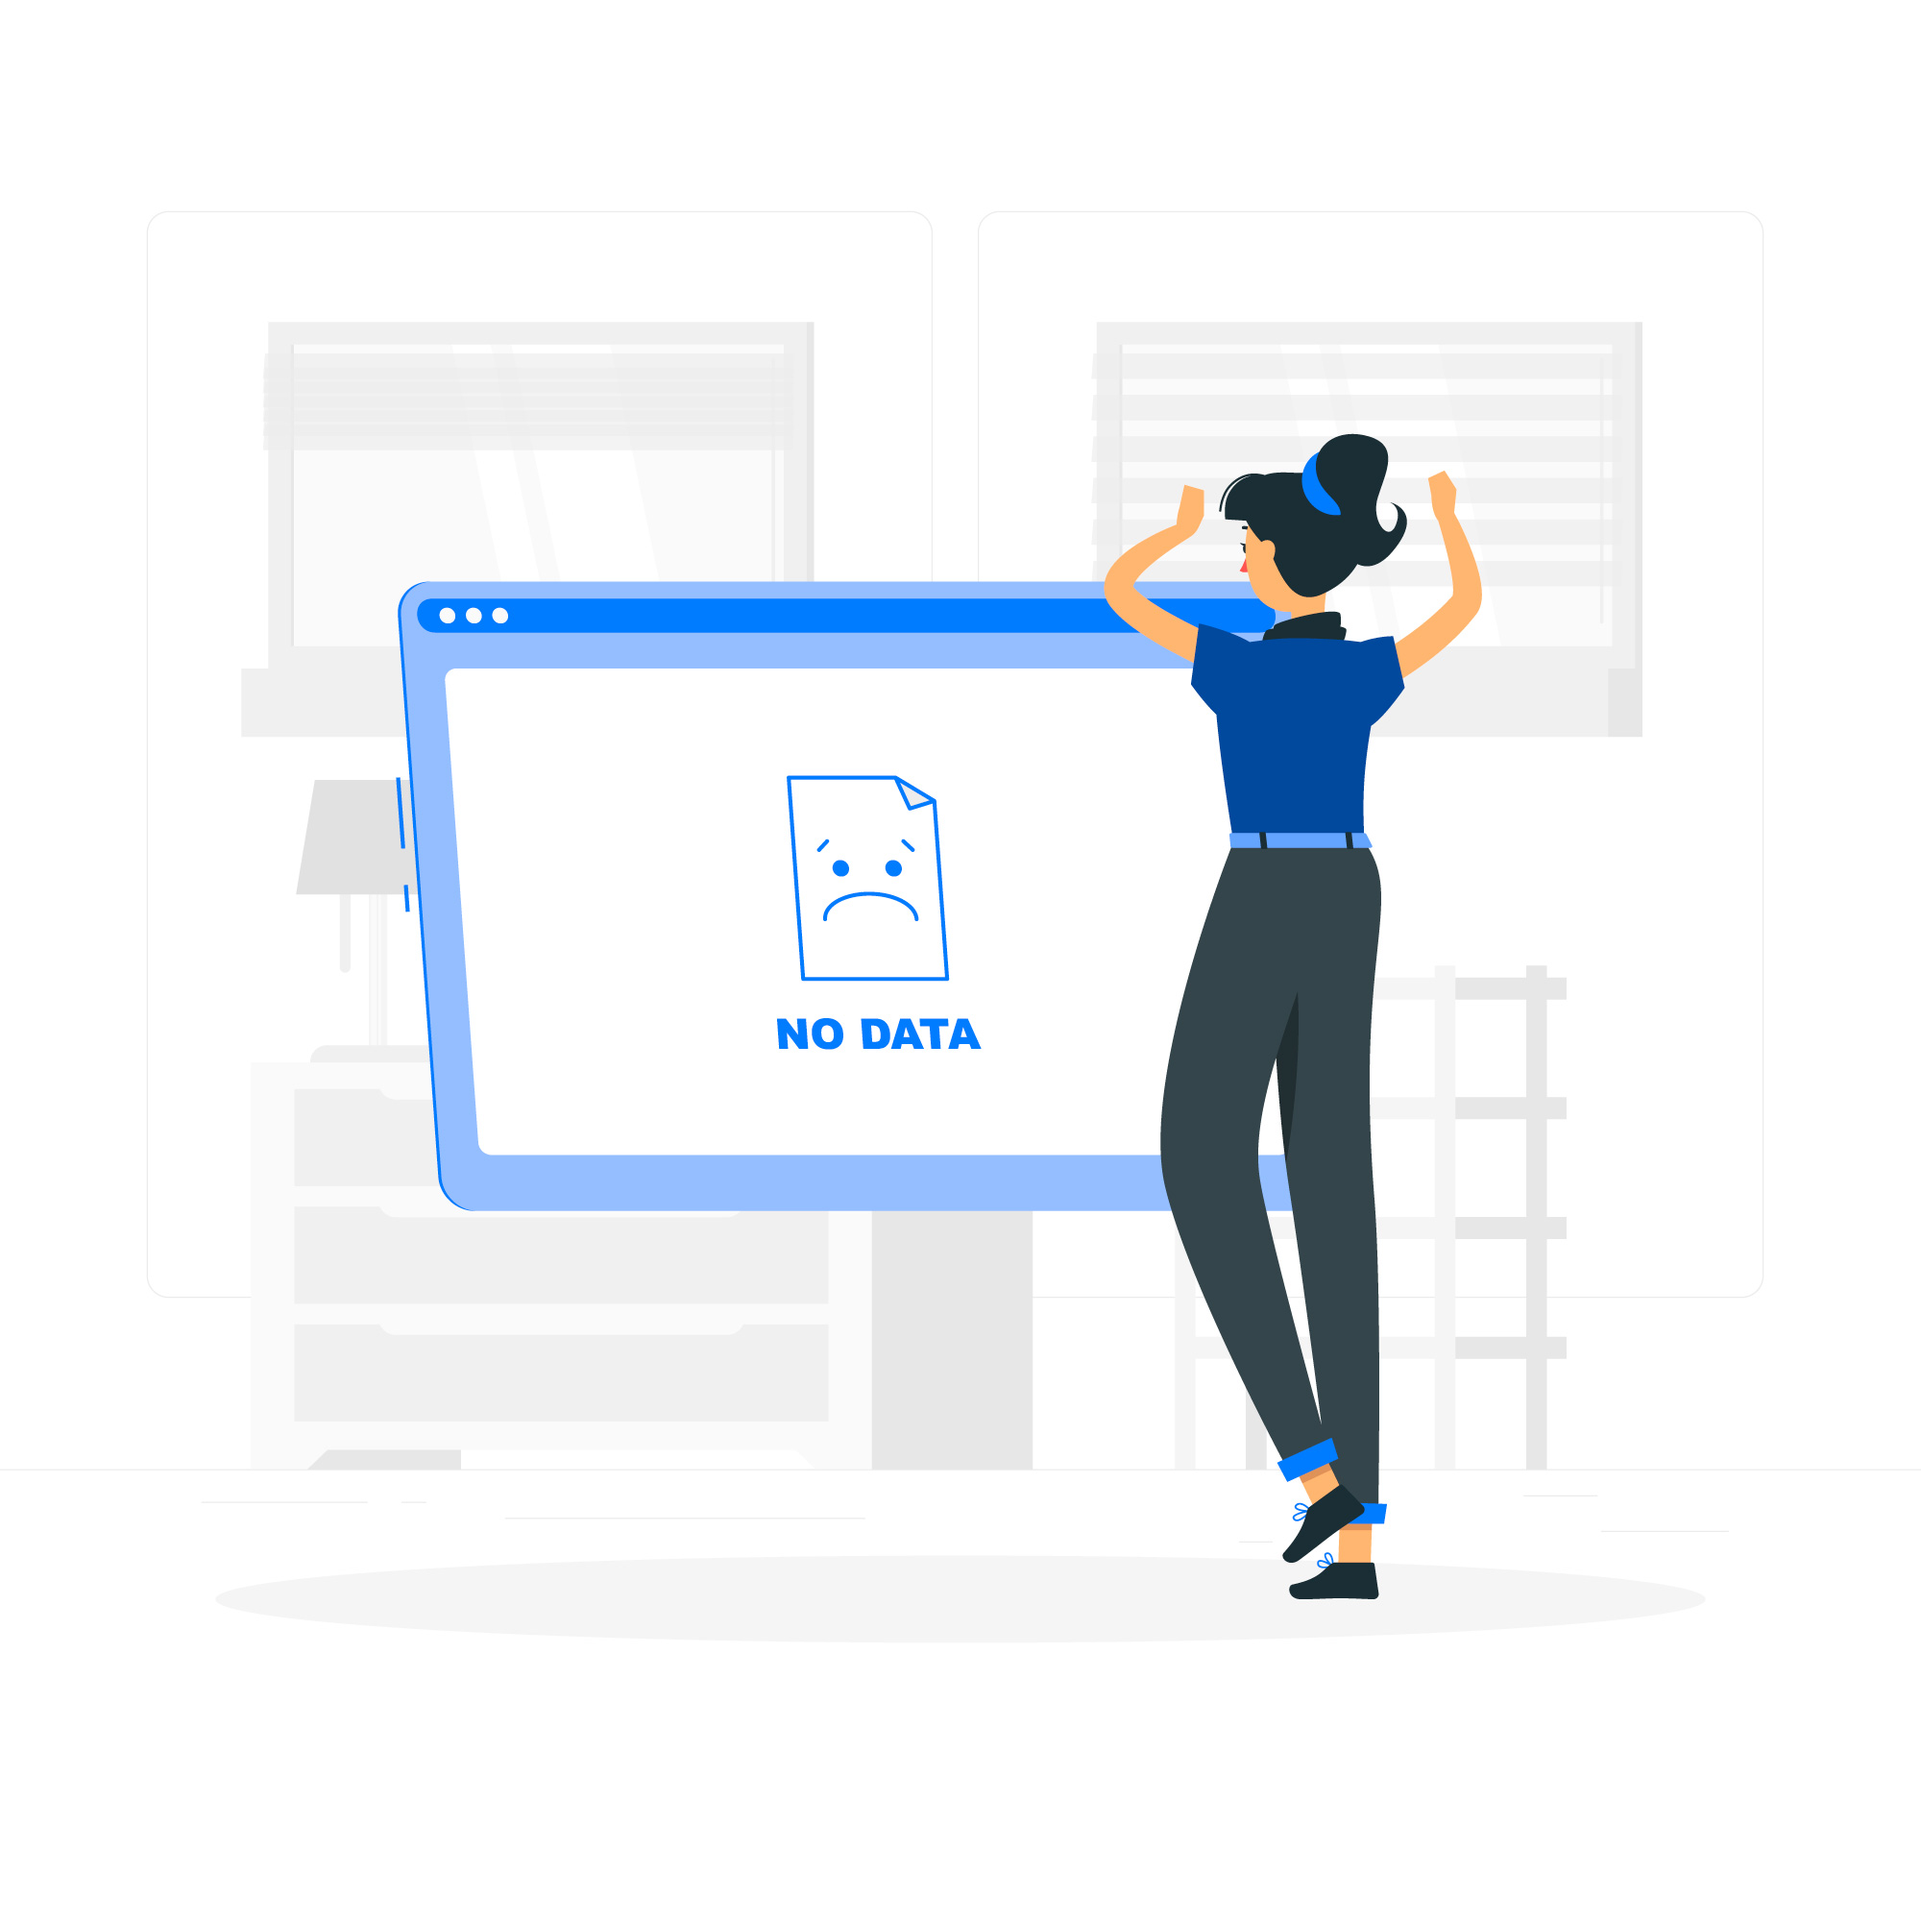
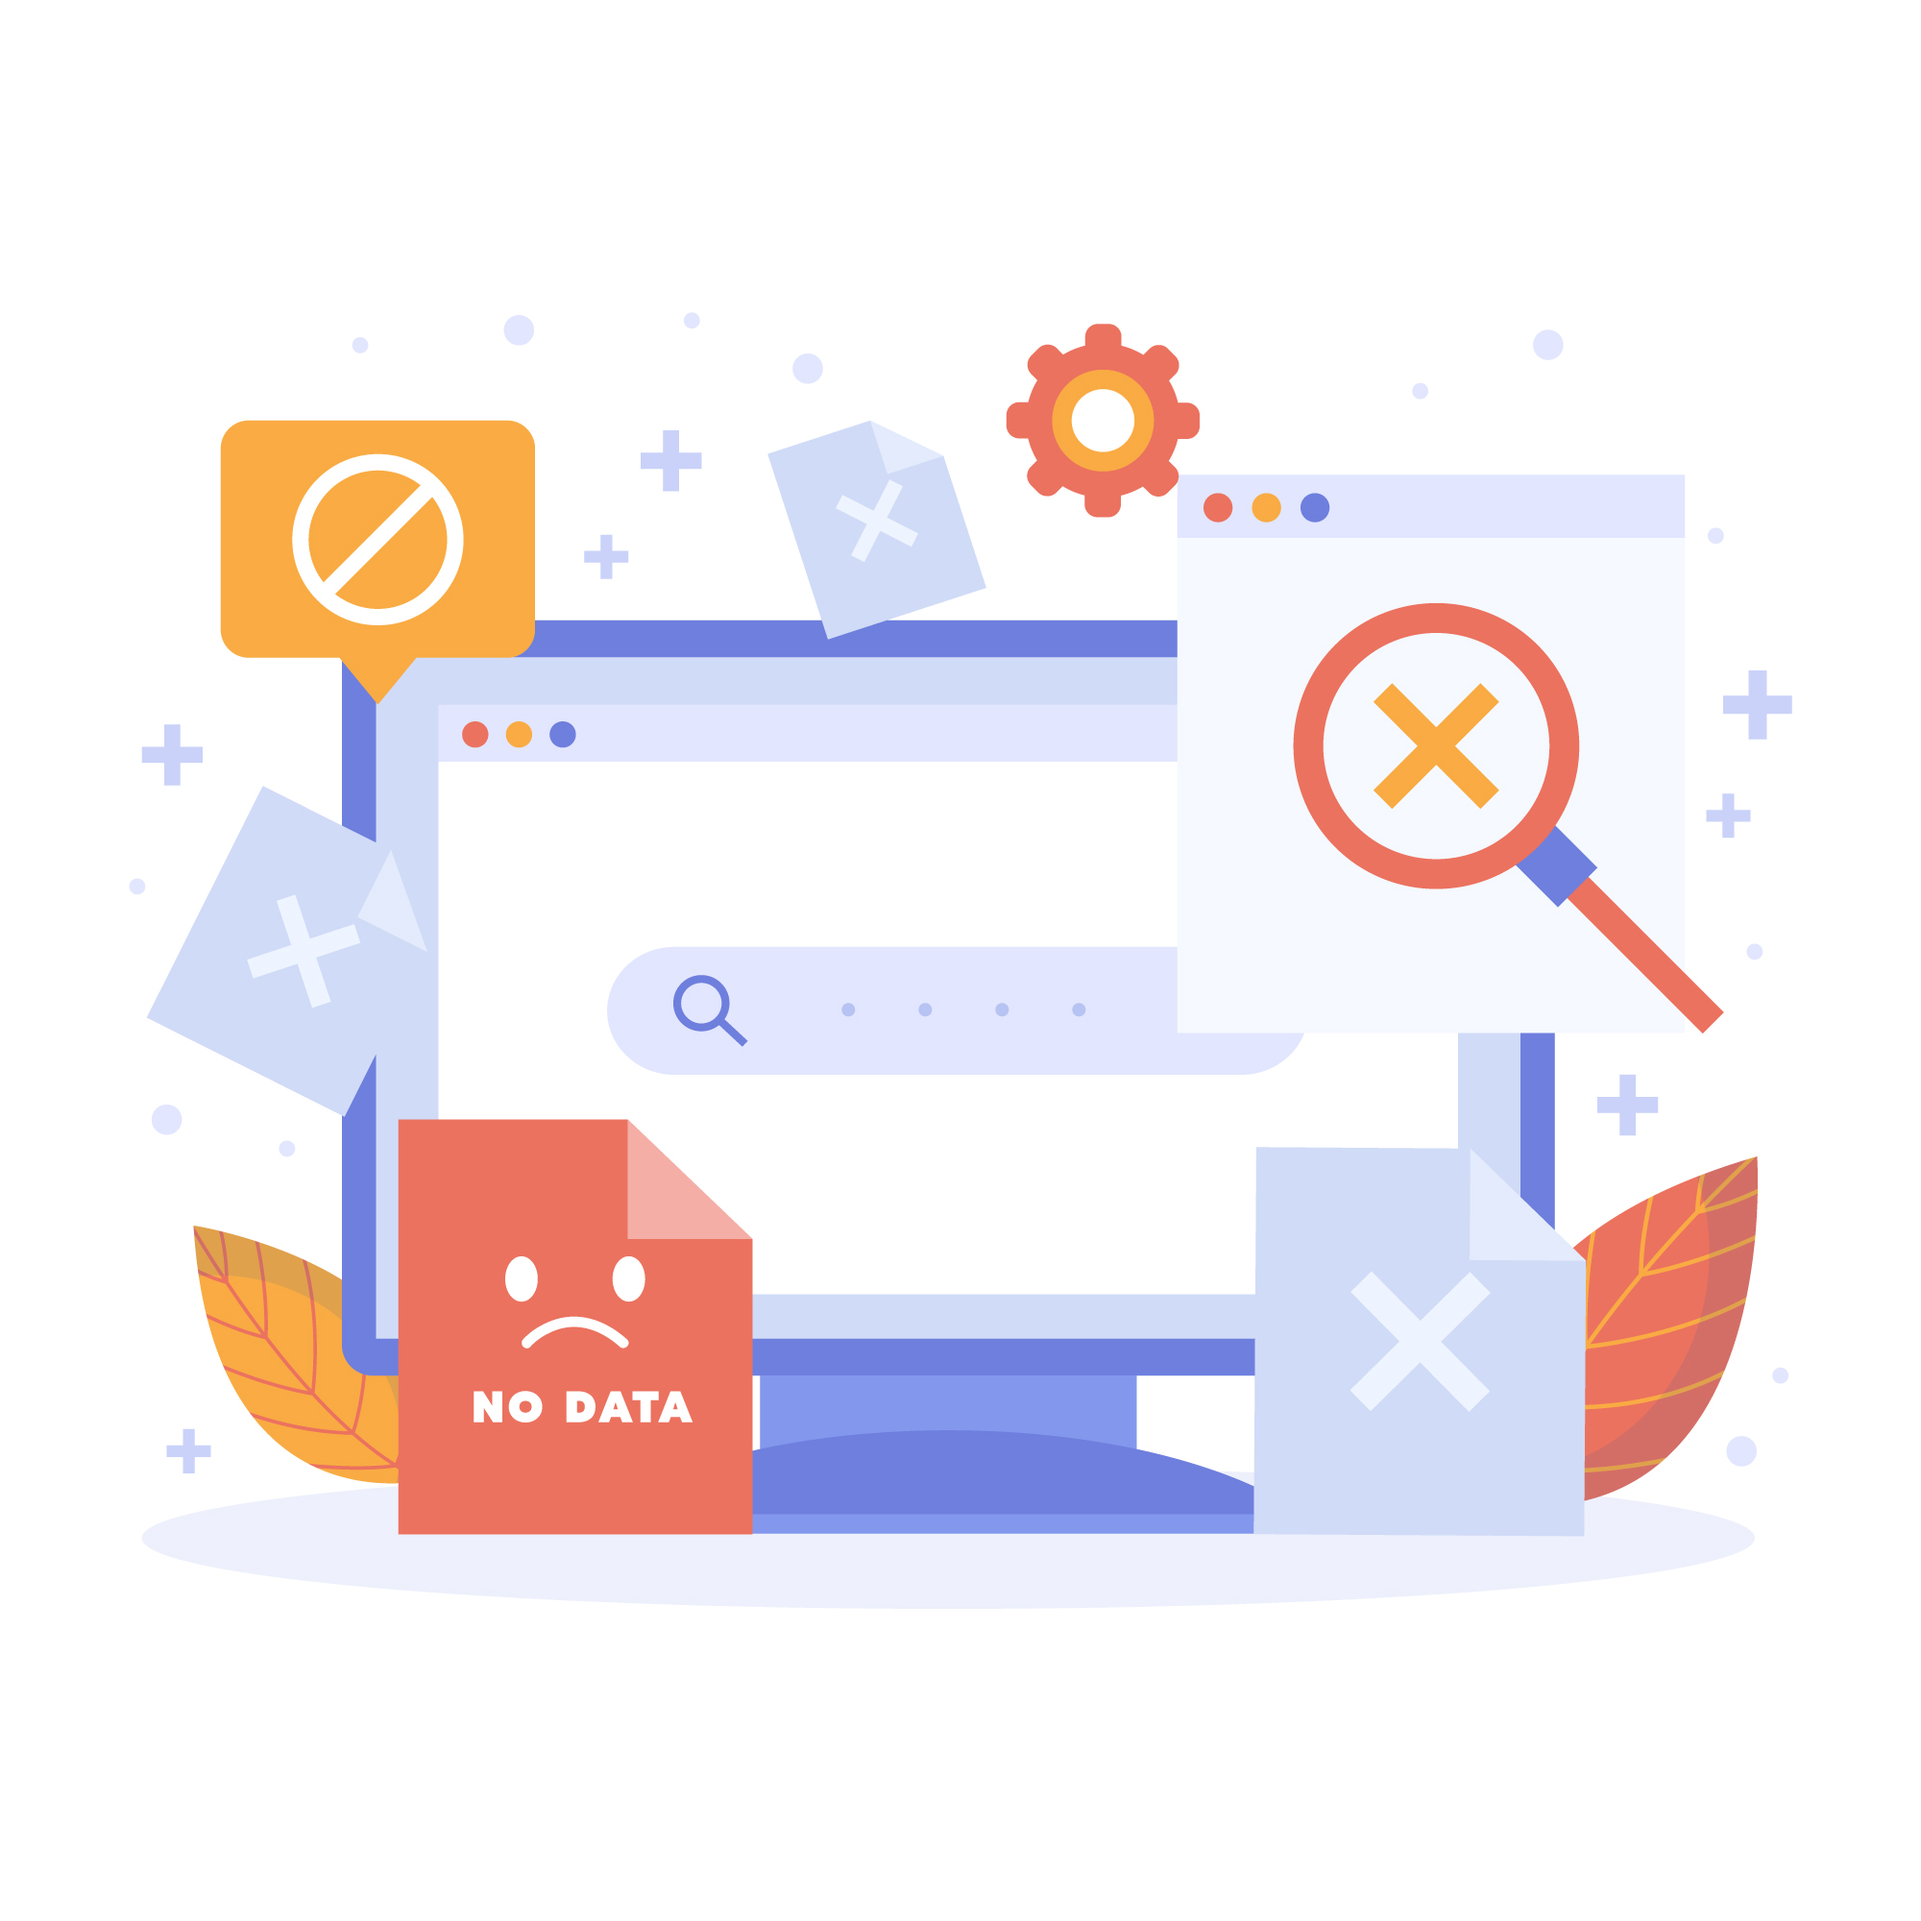
ui changes

diff --git a/pages/index.js b/pages/index.js
@@ -267,27 +267,36 @@ export default function Home() {
       ) : (
         <Layout>
           <div className="p-10 flex flex-col h-screen">
-            <div className="flex flex-initial justify-between">
+            <div className="flex  justify-center items-center">
               {!isData && (
-                <Button name="Create Board" onClick={openCreateModal} />
+                <div className="flex flex-col space-y-6">
+                  <Button name="Create Board" onClick={openCreateModal} />
+                  <img
+                    src="/nodata.jpg"
+                    alt="company"
+                    width="400"
+                    height="100"
+                  />
+                </div>
               )}
             </div>
 
             {isData && ready && (
               <>
                 <div className="flex flex-initial justify-between">
-                  <Button name="Add Board" onClick={openCreateModal} />
-                </div>
-                <div className="flex flex-initial justify-between">
-                  <Dropdown
-                    options={boards}
-                    onSelect={(option) =>
-                      console.log("Selected option:", option, boardData)
-                    }
-                    id={boardData?.id}
-                    setBoardData={setBoardData}
-                    boards={boards}
-                  />
+                  <Button name="Add New Board" onClick={openCreateModal} />
+
+                  <div className="flex flex-initial justify-between">
+                    <Dropdown
+                      options={boards}
+                      onSelect={(option) =>
+                        console.log("Selected option:", option, boardData)
+                      }
+                      id={boardData?.id}
+                      setBoardData={setBoardData}
+                      boards={boards}
+                    />
+                  </div>
                 </div>
                 <DragDrop
                   onDragEnd={onDragEnd}
@@ -298,9 +307,7 @@ export default function Home() {
                 />
               </>
             )}
-            {!isData && (
-              <img src="/nodata.jpg" alt="company" width="800" height="200" />
-            )}
+
             <Modals
               showModal={showModal}
               showEditTaskModal={showEditTaskModal}

diff --git a/components/CardItem.js b/components/CardItem.js
@@ -7,6 +7,8 @@ import {
   PaperClipIcon,
   PencilAltIcon,
   TrashIcon,
+  ClockIcon,
+  InformationCircleIcon,
 } from "@heroicons/react/outline";
 import { Draggable } from "react-beautiful-dnd";
 
@@ -38,21 +40,29 @@ function CardItem({ data, index, onEdit, onDelete }) {
               ? "Medium Priority"
               : "High Priority"}
             </label> */}
-          <h5 className="text-md my-3 text-lg leading-6">{data.name}</h5>
-          <div className="flex justify-between">
-            <div className="flex space-x-2 items-center">
-              <span className="flex space-x-1 items-center">
-                <ChatAlt2Icon className="w-4 h-4 text-gray-500" />
-                <span>{data.description}</span>
-              </span>
-              <span className="flex space-x-1 items-center">
-                <PaperClipIcon className="w-4 h-4 text-gray-500" />
-                <span>
-                  {new Date(data?.dueDate).toISOString().split("T")[0] ||
-                    data.dueDate}
+          <div className="flex flex-col my-3">
+            <h5 className="text-md text-lg leading-6 mt-4">{data.name}</h5>
+            <div className="flex flex-wrap justify-between space-y-2 mt-3">
+              <div className="flex space-x-2 items-center">
+                <span className="flex items-start">
+                  <div style={{ width: "1.5rem" }}>
+                    <InformationCircleIcon className="mt-[5px] mr-1 w-4 h-4 text-gray-500" />
+                  </div>
+                  <span className="flex-grow">{data.description}</span>
                 </span>
-              </span>
+              </div>
+
+              <div>
+                <span className="flex space-x-1 items-center">
+                  <ClockIcon className=" w-4 h-4 text-gray-500" />
+                  <span>
+                    {new Date(data?.dueDate).toISOString().split("T")[0] ||
+                      data.dueDate}
+                  </span>
+                </span>
+              </div>
             </div>
+
             {/*  <div className="flex justify-end">
               <button
                 className="text-blue-500 hover:text-blue-700 mr-2"

diff --git a/components/DragDrop.js b/components/DragDrop.js
@@ -20,7 +20,7 @@ function DragDrop({
     <>
       {" "}
       <DragDropContext onDragEnd={onDragEnd}>
-        <div className="grid grid-cols-4 gap-5 my-5">
+        <div className="grid grid-cols-3 gap-5 my-5">
           {boardData?.kanbans?.map((board, bIndex) => (
             <div key={board.name}>
               <Droppable droppableId={bIndex.toString()}>
@@ -43,7 +43,9 @@ function DragDrop({
 
                       <div
                         className="overflow-y-auto overflow-x-hidden h-auto"
-                        style={{ maxHeight: "calc(100vh - 290px)" }}
+                        style={{
+                          maxHeight: "calc(100vh - 290px)",
+                        }}
                       >
                         {board.items.length > 0 &&
                           board.items.map((item, iIndex) => (
@@ -59,13 +61,15 @@ function DragDrop({
                         {provided.placeholder}
                       </div>
 
-                      <button
-                        className="flex justify-center items-center my-3 space-x-2 text-lg"
+                      <div
+                        className="flex justify-center items-center my-3 mx-8 space-x-2 px-3 py-2 bg-yellow-500 rounded-2xl cursor-pointer hover:scale-105"
                         onClick={() => openModal(bIndex)}
                       >
-                        <span>Add task</span>
-                        <PlusCircleIcon className="w-5 h-5 text-gray-500" />
-                      </button>
+                        <button className=" text-lg  text-white">
+                          Add task
+                        </button>
+                        <PlusCircleIcon className="ml-2 mt-1 w-5 h-5 text-white" />
+                      </div>
                     </div>
                   </div>
                 )}

diff --git a/components/Layout.js b/components/Layout.js
@@ -1,17 +1,15 @@
-import React from 'react';
-import TopBar from './TopBar';
-import SideBar from './SideBar';
+import React from "react";
+import TopBar from "./TopBar";
+import SideBar from "./SideBar";
 
-function Layout({children}) {
-    return (
-        <div className="min-w-full min-h-screen  h-screen overflow-hidden bg-blue-100">
-            <TopBar/>
-            <SideBar/>
-            <main className="pl-40 pt-16">
-                {children}
-            </main>
-        </div>
-    );
+function Layout({ children }) {
+  return (
+    <div className="min-w-full min-h-screen  h-screen overflow-hidden bg-blue-100">
+      <TopBar />
+      <SideBar />
+      <main className=" pt-16">{children}</main>
+    </div>
+  );
 }
 
 export default Layout;

diff --git a/components/TopBar.js b/components/TopBar.js
@@ -5,9 +5,11 @@ import Image from "next/image";
 function TopBar(props) {
   return (
     <div
-      className="h-16 pl-40 fixed bg-gradient-to-r from-purple-400
-        to-blue-500 w-full flex items-center justify-between pr-5"
-    ></div>
+      className="h-16  fixed bg-gradient-to-r from-purple-400
+        to-blue-500 w-full flex items-center justify-center text-white font-bold text-2xl"
+    >
+      Kanban Application
+    </div>
   );
 }
 
